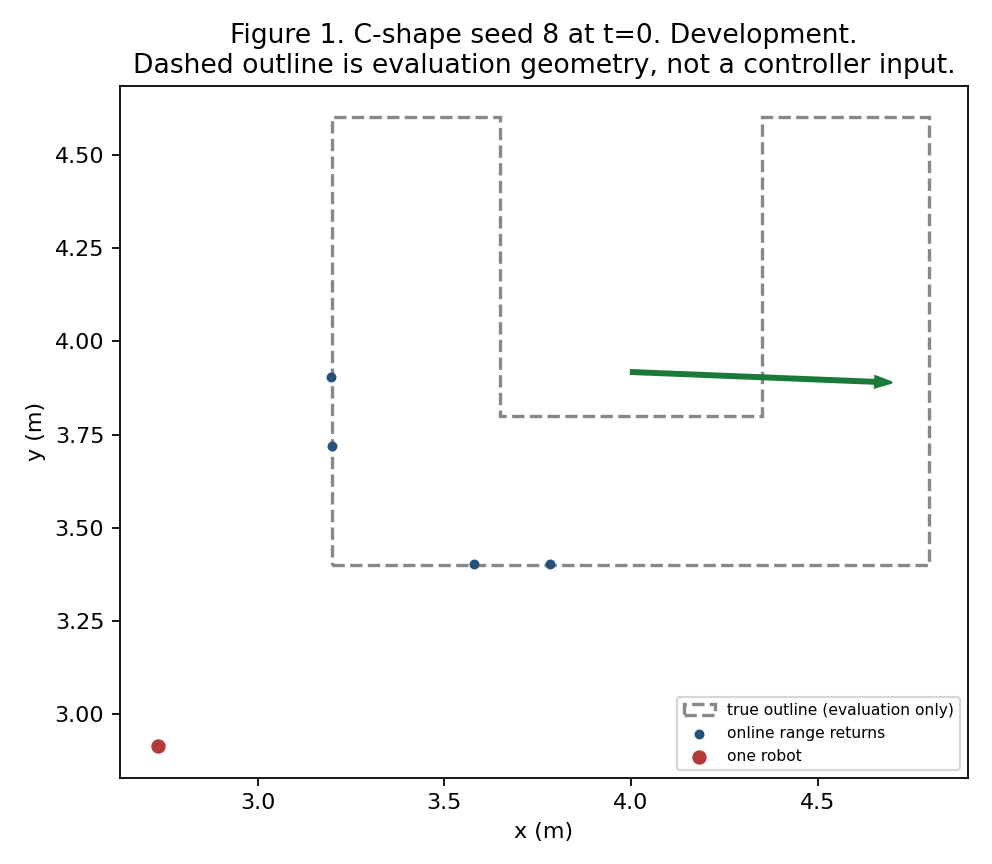
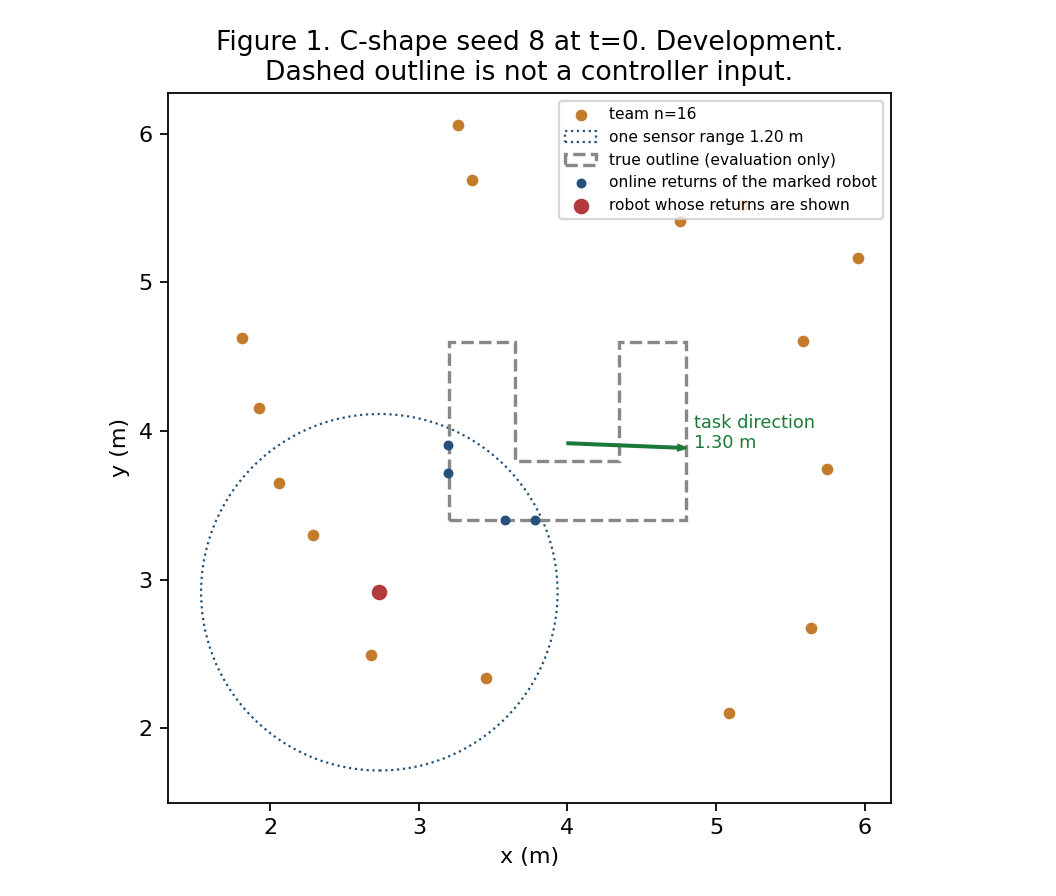
fix: guard unobserved corners in static local safety rows
Sample points on L seed 2 left the convex corner 11 mm closer than the nearest stored sample, and the binding plane was optimistic by about 2.6 mm. Half the local gap is now pulled toward the sensor in static segment mode. The C seed 5 overshoot remains powered contact while the progress estimate lags; opening the ring at the reference ramp did not reduce it.

diff --git a/scripts/render_professor_figures.py b/scripts/render_professor_figures.py
@@ -61,40 +61,47 @@ def figure_problem(path: Path) -> None:
     cargo = env.cargoes[0]
     agent = min(env.agents, key=lambda item: np.linalg.norm(item.position - cargo.position))
     view = env.controller.sensor.sense_view(agent, env.cargoes, 0.0)
-    fig, ax = plt.subplots(figsize=(6.2, 5.4))
+    goal = env.goal_directions[cargo.object_id]
+    distance = env.tasks[cargo.object_id].distance
+    sensor = float(env.controller.params.sensor_range)
+    fig, ax = plt.subplots(figsize=(6.6, 5.6))
+    team = np.vstack([item.position for item in env.agents])
+    ax.scatter(team[:, 0], team[:, 1], s=18, color="#c47b2b", label=f"team n={len(env.agents)}", zorder=3)
+    circle = plt.Circle(agent.position, sensor, fill=False, linestyle=":", color="#24527a", label=f"one sensor range {sensor:.2f} m")
+    ax.add_patch(circle)
     ax.add_patch(MplPolygon(cargo.vertices, closed=True, fill=False, linestyle="--", linewidth=1.5, color="#888888", label="true outline (evaluation only)"))
     if len(view):
-        ax.scatter(view.points[:, 0], view.points[:, 1], s=12, color="#24527a", label="online range returns", zorder=3)
-    ax.scatter([agent.position[0]], [agent.position[1]], color="#b33a3a", s=30, label="one robot", zorder=4)
-    goal = env.goal_directions[cargo.object_id]
-    ax.arrow(cargo.position[0], cargo.position[1], 0.7 * goal[0], 0.7 * goal[1], width=0.01, color="#1b7a3a", length_includes_head=True)
+        ax.scatter(view.points[:, 0], view.points[:, 1], s=12, color="#24527a", label="online returns of the marked robot", zorder=4)
+    ax.scatter([agent.position[0]], [agent.position[1]], color="#b33a3a", s=36, zorder=5, label="robot whose returns are shown")
+    ax.arrow(cargo.position[0], cargo.position[1], 0.8 * goal[0], 0.8 * goal[1], width=0.012, color="#1b7a3a", length_includes_head=True)
+    ax.text(cargo.position[0] + 0.85 * goal[0], cargo.position[1] + 0.85 * goal[1], f"task direction\n{distance:.2f} m", color="#1b7a3a", fontsize=8)
     ax.set_aspect("equal")
     ax.set_xlabel("x (m)")
     ax.set_ylabel("y (m)")
-    ax.set_title("Figure 1. C-shape seed 8 at t=0. Development.\nDashed outline is evaluation geometry, not a controller input.")
-    ax.legend(fontsize=7)
+    ax.set_title("Figure 1. C-shape seed 8 at t=0. Development.\nDashed outline is not a controller input.")
+    ax.legend(fontsize=7, loc="upper right")
     fig.tight_layout()
     fig.savefig(path, dpi=160)
     plt.close(fig)
 
 
 def figure_method(path: Path) -> None:
-    fig, ax = plt.subplots(figsize=(8.6, 3.4))
-    ax.set_xlim(0, 10)
-    ax.set_ylim(0, 3)
+    fig, ax = plt.subplots(figsize=(8.8, 4.6))
+    ax.set_xlim(0, 12)
+    ax.set_ylim(0, 6)
     ax.axis("off")
-    boxes = [
-        (0.2, 1.15, "local ranges\nand arc weights"),
-        (2.2, 1.15, "offset targets\nbefore contact"),
-        (4.2, 1.15, "limited-range\nCVT centroid"),
-        (6.2, 1.15, "shared safety QP"),
-        (8.15, 1.15, "estimated-progress\nbrake"),
-    ]
-    for x, y, text in boxes:
-        ax.add_patch(FancyBboxPatch((x, y), 1.7, 1.15, boxstyle="round,pad=0.03", facecolor="#e8f0f7", edgecolor="#24527a"))
-        ax.text(x + 0.85, y + 0.55, text, ha="center", va="center", fontsize=8)
-    ax.text(5, 0.35, "CONTACT_READY may brake without four pushers. Pause and watchdog are not task success.", ha="center", fontsize=8)
-    ax.set_title("Figure 2. Modules that actually run. Development controller.")
+    def box(x, y, w, h, text, face):
+        ax.add_patch(FancyBboxPatch((x, y), w, h, boxstyle="round,pad=0.03", facecolor=face, edgecolor="#24527a"))
+        ax.text(x + w / 2, y + h / 2, text, ha="center", va="center", fontsize=8)
+    box(0.3, 3.6, 3.4, 1.6, "deployment, before CONTACT_READY\nCVT centroid, or nearest target,\nor local spacing", "#f7f1e3")
+    box(4.2, 3.6, 3.2, 1.6, "local ranges, arc weights,\noffset targets", "#e8f0f7")
+    box(8.0, 3.6, 3.5, 1.6, "shared layer\nsafety QP, brake, pause,\nintegral release", "#e7f4ea")
+    ax.annotate("", xy=(4.15, 4.4), xytext=(3.75, 4.4), arrowprops={"arrowstyle": "->"})
+    ax.annotate("", xy=(7.95, 4.4), xytext=(7.45, 4.4), arrowprops={"arrowstyle": "->"})
+    ax.annotate("", xy=(6.0, 3.55), xytext=(9.5, 3.55), arrowprops={"arrowstyle": "->", "connectionstyle": "arc3,rad=0.3"})
+    ax.text(7.6, 2.55, "estimated progress and speed\nfeed the brake; pause is not success", ha="center", fontsize=8)
+    ax.text(6, 0.6, "Only the centroid target changes between deployment methods.\nBrake, safety, sensing and contact physics stay common.", ha="center", fontsize=8)
+    ax.set_title("Figure 2. Executed split between deployment and the shared controller.")
     fig.tight_layout()
     fig.savefig(path, dpi=160)
     plt.close(fig)
@@ -103,20 +110,33 @@ def figure_method(path: Path) -> None:
 def figure_brake(path: Path) -> None:
     old = cargo_series(ROOT / "runs/evidence_closure/study_v3/development/dev_c_shape_8_boundary_cvt")
     new = cargo_series(ROOT / "runs/evidence_closure/phase_brake_v7/c_shape_seed8_boundary_cvt")
-    fig, axes = plt.subplots(2, 1, figsize=(7.4, 5.6), sharex=True)
+    fig, axes = plt.subplots(2, 1, figsize=(7.6, 6.4), sharex=False)
     axes[0].plot(old["times"], old["along"], color="#888888", label=f"before, endpoint {old['endpoint'][-1]:.2f} m")
     axes[0].plot(new["times"], new["along"], color="#24527a", label=f"after, endpoint {new['endpoint'][-1]:.3f} m")
-    axes[0].axhline(old["distance"], color="#1b7a3a", linewidth=0.8, label="target distance")
-    mark_brake(axes[0], new, "#24527a")
+    axes[0].axhline(new["distance"], color="#1b7a3a", linewidth=0.8, label="target distance")
+    seen = set()
+    for step in new["phases"]:
+        if step["phase"] not in seen and step["phase"] in {"CONTACT_READY", "BRAKE", "HOLD"}:
+            seen.add(step["phase"])
+            for ax in axes:
+                ax.axvline(step["frame"] * 0.05, color="#24527a", linestyle="--", linewidth=0.7)
+            axes[0].text(step["frame"] * 0.05, new["distance"] * 0.15, step["phase"], rotation=90, fontsize=7, color="#24527a")
+    zoom = axes[0].inset_axes([0.55, 0.15, 0.42, 0.45])
+    window = (new["times"] > 12) & (new["times"] < 22)
+    zoom.plot(new["times"][window], new["along"][window], color="#24527a")
+    zoom.axhline(new["distance"], color="#1b7a3a", linewidth=0.6)
+    zoom.set_title("stop window", fontsize=7)
+    zoom.tick_params(labelsize=6)
     axes[0].set_ylabel("along-track progress (m)")
     axes[0].legend(fontsize=7)
     axes[1].plot(old["step_time"], old["force"], color="#888888", label="before")
     axes[1].plot(new["step_time"], new["force"], color="#b33a3a", label="after")
-    mark_brake(axes[1], new, "#24527a")
+    axes[1].set_xlim(0, 40)
+    axes[0].set_xlim(0, 40)
     axes[1].set_ylabel("forward force (N)")
     axes[1].set_xlabel("time (s)")
     axes[1].legend(fontsize=7)
-    axes[0].set_title("Figure 3. C seed 8 CVT, downstream brake only. n=1. Development.\nNot evidence that CVT beats another deployment.")
+    axes[0].set_title("Figure 3. C seed 8 CVT. Downstream brake only. n=1. Development.\nInset is the stop. Not a CVT-versus-baseline result.")
     fig.tight_layout()
     fig.savefig(path, dpi=160)
     plt.close(fig)
@@ -129,41 +149,58 @@ def figure_methods(path: Path, run_dir: Path) -> None:
     if not rows:
         return
     variants = ["boundary_cvt", "nearest_observed_target", "local_spacing"]
-    fig, axes = plt.subplots(1, 2, figsize=(8.2, 4.0))
+    colors = {"l_shape": "#24527a", "rectangle": "#1b7a3a", "c_shape": "#c47b2b"}
+    fig, axes = plt.subplots(1, 2, figsize=(8.6, 4.2))
+    notes = []
     for index, variant in enumerate(variants):
         chosen = [row for row in rows if row.get("variant") == variant]
-        ready = [row.get("contact_ready_seconds") for row in chosen if row.get("contact_ready_seconds") is not None]
-        endpoint = [(row.get("euclidean_endpoint_error"), bool(row.get("watchdog"))) for row in chosen if row.get("euclidean_endpoint_error") is not None]
-        axes[0].scatter(np.full(len(ready), index), ready, s=28, color="#24527a")
-        if endpoint:
-            axes[1].scatter(np.full(len(endpoint), index), [item[0] for item in endpoint], s=28, c=["#b33a3a" if item[1] else "#24527a" for item in endpoint])
-    axes[0].set_xticks(range(3), ["CVT", "nearest", "spacing"])
-    axes[1].set_xticks(range(3), ["CVT", "nearest", "spacing"])
+        done = sum(bool(row.get("task_completed")) for row in chosen)
+        notes.append(f"{variant.split('_')[0]} {done}/{len(chosen)}")
+        for row in chosen:
+            jitter = 0.12 if row.get("shape") == "rectangle" else (-0.12 if row.get("shape") == "c_shape" else 0.0)
+            color = "#b33a3a" if row.get("watchdog") or not row.get("task_completed") else colors.get(row.get("shape"), "#24527a")
+            if row.get("contact_ready_seconds") is not None:
+                axes[0].scatter([index + jitter], [row["contact_ready_seconds"]], s=28, color=color)
+            if row.get("euclidean_endpoint_error") is not None:
+                axes[1].scatter([index + jitter], [row["euclidean_endpoint_error"]], s=28, color=color)
+    axes[1].axhline(0.12, color="#888888", linewidth=0.8, label="0.12 m task tolerance")
+    for ax in axes:
+        ax.set_xticks(range(3), ["CVT\nn=9", "nearest\nn=9", "spacing\nn=9"])
     axes[0].set_ylabel("CONTACT_READY (s)")
     axes[1].set_ylabel("endpoint error (m)")
-    axes[1].axhline(0.12, color="#888888", linewidth=0.8)
-    fig.suptitle(f"Figure 4. Shared downstream controller. Development n={len(rows)}. Red = watchdog.")
+    fig.suptitle(
+        "Figure 4. Development L/rectangle/C, seeds 2/5/8. Same downstream controller.\n"
+        "Task completion " + ", ".join(notes) + ". Red = not completed. Not an independent test."
+    )
     fig.tight_layout()
     fig.savefig(path, dpi=160)
     plt.close(fig)
 
 
 def figure_safety(path: Path) -> None:
-    root = ROOT / "runs/evidence_closure/static_segment_v1"
-    labels, clearance, displacement = [], [], []
+    root = ROOT / "runs/evidence_closure/static_segment_v2"
+    labels, clearance, displacement, status = [], [], [], []
     for folder in sorted(p for p in root.glob("*") if p.is_dir()):
         summary = json.loads((folder / "summary.json").read_text(encoding="utf-8"))
         labels.append(folder.name.replace("l_shape_seed2_", ""))
         clearance.append(1000 * float(summary.get("clearance_path_min") or 0))
         displacement.append(float(summary.get("mean_robot_displacement") or 0))
-    fig, axes = plt.subplots(1, 2, figsize=(7.2, 3.8))
+        status.append(summary.get("safety_evaluation_status"))
+    fig, axes = plt.subplots(1, 2, figsize=(7.4, 4.0))
     if labels:
-        axes[0].bar(labels, clearance, color="#24527a")
-        axes[0].axhline(65, color="#b33a3a", linewidth=0.8)
+        bars = axes[0].bar(labels, clearance, color="#24527a")
+        axes[0].axhline(65, color="#b33a3a", linewidth=0.8, label="65 mm static threshold")
         axes[1].bar(labels, displacement, color="#c47b2b")
-    axes[0].set_ylabel("path clearance (mm)")
-    axes[1].set_ylabel("mean displacement (m)")
-    fig.suptitle("Figure 5. L seed 2 static local, n=1 each. Development.\nClearance and motion are separate. 65 mm is not a transport rule.")
+        for bar, value, flag in zip(bars, clearance, status):
+            axes[0].text(bar.get_x() + bar.get_width() / 2, value + 0.4, f"{value:.2f} mm\n{flag}", ha="center", va="bottom", fontsize=7)
+        for bar, value in zip(axes[1].patches, displacement):
+            axes[1].text(bar.get_x() + bar.get_width() / 2, value + 0.02, f"{value:.3f} m", ha="center", fontsize=7)
+        axes[0].set_ylim(0, max(clearance) + 12)
+        axes[1].set_ylim(0, max(displacement) + 0.2)
+        axes[0].legend(fontsize=7)
+    axes[0].set_ylabel("minimum path clearance (mm)")
+    axes[1].set_ylabel("mean robot displacement (m)")
+    fig.suptitle("Figure 5. One static development case, L seed 2, n=1 each.\nBelow 65 mm is an observed violation. Not a transport safety claim.")
     fig.tight_layout()
     fig.savefig(path, dpi=160)
     plt.close(fig)
@@ -177,7 +214,7 @@ def main() -> None:
     dev = ROOT / "runs/evidence_closure/dev_common_brake_v1/development"
     if any(dev.glob("*/case_result.json")):
         figure_methods(OUT / "figure4_methods.png", dev)
-    if (ROOT / "runs/evidence_closure/static_segment_v1").exists():
+    if (ROOT / "runs/evidence_closure/static_segment_v2").exists():
         figure_safety(OUT / "figure5_safety.png")
     print(OUT)
 

diff --git a/src/dbact/local_boundary_features.py b/src/dbact/local_boundary_features.py
@@ -42,6 +42,34 @@ def scan_segments(returns, origin, timestamp, *, max_gap=.08, residual_max=.004,
     return output
 
 
+def gap_guarded_samples(origin, points, normals):
+    """Pull each sample toward the sensor by half the local gap.
+
+    A sample point is not the true nearest boundary. On L seed 2 the nearest
+    stored sample was 76.6 mm from the robot while the convex corner, lying
+    between two samples 40.5 mm apart, was 65.1 mm away. Half that chord is a
+    geometric allowance for the unobserved corner, not a change of r_safe.
+    """
+    origin = np.asarray(origin, dtype=float).reshape(2)
+    points = np.asarray(points, dtype=float).reshape(-1, 2)
+    normals = np.asarray(normals, dtype=float).reshape(-1, 2)
+    if len(points) < 2:
+        return points, normals
+    guarded = points.copy()
+    for index, point in enumerate(points):
+        others = np.linalg.norm(points - point, axis=1)
+        others[index] = np.inf
+        gap = float(np.min(others))
+        if not np.isfinite(gap) or gap <= 0.0:
+            continue
+        direction = origin - point
+        length = float(np.linalg.norm(direction))
+        if length < 1e-9:
+            continue
+        guarded[index] = point + direction / length * min(0.5 * gap, 0.04)
+    return guarded, normals
+
+
 def segment_rows(position, features, params, timestamp):
     """All observed segments in the one-hold switch cover, without row truncation."""
     features=[f for f in features if 0 <= timestamp-f.timestamp <= params.dt+1e-9]

diff --git a/src/dbact/controller.py b/src/dbact/controller.py
@@ -987,8 +987,12 @@ class DBACTController:
         if object_id is None:
             return True
         remaining = float(self.tasks[object_id].distance) - float(self.team_progress.get(object_id, 0.0))
-        # Reaching the estimated target must open the ring. Waiting for low speed
-        # first leaves the contact force on, so the speed never falls.
+        # Open the ring once the estimate has reached the target. Doing it at the
+        # reference ramp (0.18 m) was tried on C seed 5 and increased the
+        # overshoot from 0.150 m to 0.161 m, so that earlier opening is not used.
+        # An unavailable estimate cannot support the remaining distance.
+        if self.team_estimate_quality == "unavailable":
+            return True
         if remaining <= 0.0:
             return True
         if self._brake_has_push_quorum():

diff --git a/src/dbact/theorem_mode.py b/src/dbact/theorem_mode.py
@@ -578,6 +578,9 @@ def theorem_step(
         )
         features = None
         if source == 'local' and controller.params.theorem_local_segments:
+            from .local_boundary_features import gap_guarded_samples
+            if len(points):
+                points, normals = gap_guarded_samples(agent.position, points, normals)
             features = controller.sensor.local_features.get(agent.agent_id, [])
             # An empty fresh-segment list is missing observation, not a geometric
             # constraint. Sampled map rows still apply. Zeroing the nominal here

diff --git a/tests/test_gap_guard.py b/tests/test_gap_guard.py
@@ -1,0 +1,12 @@
+import numpy as np
+from dbact.local_boundary_features import gap_guarded_samples
+
+
+def test_gap_guard_pulls_a_sample_toward_the_sensor():
+    origin = np.zeros(2)
+    points = np.array([[1.0, 0.0], [1.0, 0.04]])
+    normals = np.array([[-1.0, 0.0], [-1.0, 0.0]])
+    guarded, out_normals = gap_guarded_samples(origin, points, normals)
+    assert guarded.shape == points.shape
+    assert np.linalg.norm(guarded[0]) < np.linalg.norm(points[0])
+    assert np.allclose(out_normals, normals)

diff --git a/docs/results/evidence_closure/professor_figures/captions.md b/docs/results/evidence_closure/professor_figures/captions.md
@@ -1,9 +1,9 @@
-Figure 1. One robot's range returns on C-shape seed 8 at the initial instant. The dashed outline is evaluation geometry and is not a controller input. The figure shows why configuration has to be built from a partial boundary. It does not show a completed transport.
+Figure 1. C-shape seed 8 at the initial instant, whole team of 16. One robot's sensor disk and its range returns are shown. The arrow is the task direction and distance. The dashed outline is evaluation geometry and is not a controller input. The figure does not show a completed transport.
 
-Figure 2. The modules that the current controller actually executes: local ranges, offset targets, a limited-range CVT centroid, the shared safety filter, and a brake that can leave CONTACT_READY without four push-side robots. Pause and watchdog are not task success. This is not a proof of the method.
+Figure 2. Deployment methods differ only in the pre-contact centroid. Local ranges and offset targets feed that centroid. Estimated progress and speed feed the shared brake. Pause and watchdog are not task success. This is the executed split, not a proof.
 
-Figure 3. The same C seed 8 CVT deployment before and after the downstream brake fix. The before run never brakes and passes the target by about 1.79 m. The after run brakes and stops near the target. This is not a comparison against spacing or nearest-target control.
+Figure 3. Same C seed 8 CVT deployment before and after the downstream brake. The inset is the stop. Phase lines mark contact-ready, brake and hold on the repaired run. The before run never brakes. This is not a comparison with spacing or nearest-target control.
 
-Figure 4. Boundary CVT, nearest observed target, and local spacing on the development shapes and seeds, all using the controller after the brake and initial-clearance fixes. Endpoint error above 0.12 m is not task completion. Red marks a watchdog. The sample is the development set only.
+Figure 4. Development L, rectangle and C, seeds 2, 5 and 8. Each method has n=9 paired episodes on the same downstream controller. Task completion requires settling and endpoint error at most 0.12 m. Red points are not completed. CVT is not ahead on task completion. This is not an independent test.
 
-Figure 5. Static L seed 2 with sampled map rows and with fresh segments added. Path clearance and robot displacement are separate. Crossing below 65 mm is an observed static violation. Restored motion is not a safety certificate, and a low clearance with large displacement is not a successful deployment.
+Figure 5. One static development case, L seed 2. Sample rows: path clearance 48.33 mm, mean displacement 0.996 m, observed violation. Gap-guarded segments: path clearance 69.50 mm, mean displacement 0.949 m, certified on this fixed-polygon hold only. Motion and safety are separate. This is not a transport or unknown-region guarantee.
